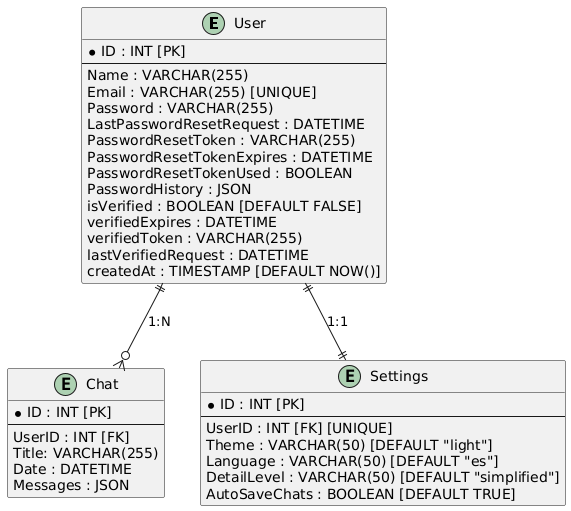
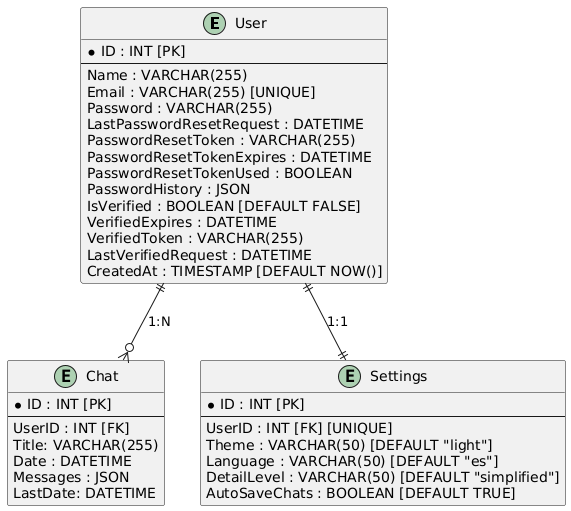
catalogo, modelos

diff --git a/conceptual_model/uml_diagram.py b/conceptual_model/uml_diagram.py
@@ -15,11 +15,11 @@ uml.node("User", '''<<table border="0" cellborder="1" cellspacing="0">
 <tr><td align="left">PasswordResetTokenExpires</td></tr>
 <tr><td align="left">PasswordResetTokenUsed</td></tr>
 <tr><td align="left">PasswordHistory</td></tr>
-<tr><td align="left">isVerified</td></tr>
-<tr><td align="left">verifiedExpires</td></tr>
-<tr><td align="left">verifiedToken</td></tr>
-<tr><td align="left">lastVerifiedRequest</td></tr>
-<tr><td align="left">createdAt</td></tr>
+<tr><td align="left">IsVerified</td></tr>
+<tr><td align="left">VerifiedExpires</td></tr>
+<tr><td align="left">VerifiedToken</td></tr>
+<tr><td align="left">LastVerifiedRequest</td></tr>
+<tr><td align="left">CreatedAt</td></tr>
 </table>>''', shape='plaintext', style='rounded')
 
 uml.node('Chat', '''<<table border="0" cellborder="1" cellspacing="0">
@@ -27,6 +27,7 @@ uml.node('Chat', '''<<table border="0" cellborder="1" cellspacing="0">
 <tr><td align="left">Title</td></tr>
 <tr><td align="left">Date</td></tr>
 <tr><td align="left">Messages</td></tr>
+<tr><td align="left">LastDate</td></tr>
 </table>>''', shape='plaintext', style='rounded')
 
 uml.node('Settings', '''<<table border="0" cellborder="1" cellspacing="0">

diff --git a/README.md b/README.md
@@ -65,10 +65,7 @@
 2. **Compatibilidad:**
     - La aplicación debe ser accesible desde dispositivos móviles y de escritorio.
 
-3. **Seguridad:**
-    - El sistema debe garantizar la seguridad de los datos mediante contraseñas hash y comunicación segura (HTTPS).
-
-4. **Interfaz:**
+3. **Interfaz:**
     - La interfaz debe ser intuitiva, utilizando React con TypeScript y estilización con TailwindCSS.
 
 ## **Requisitos Técnicos**
